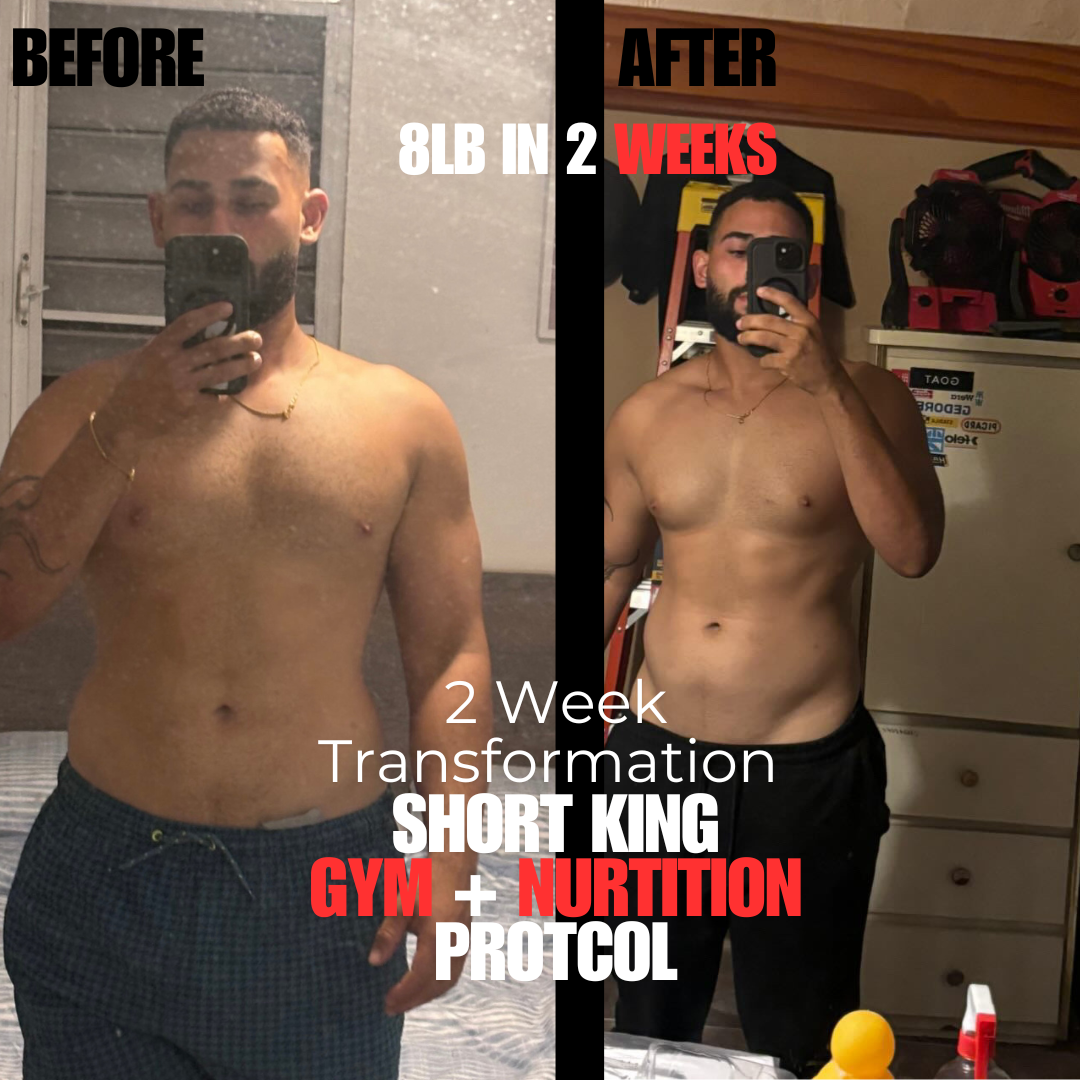
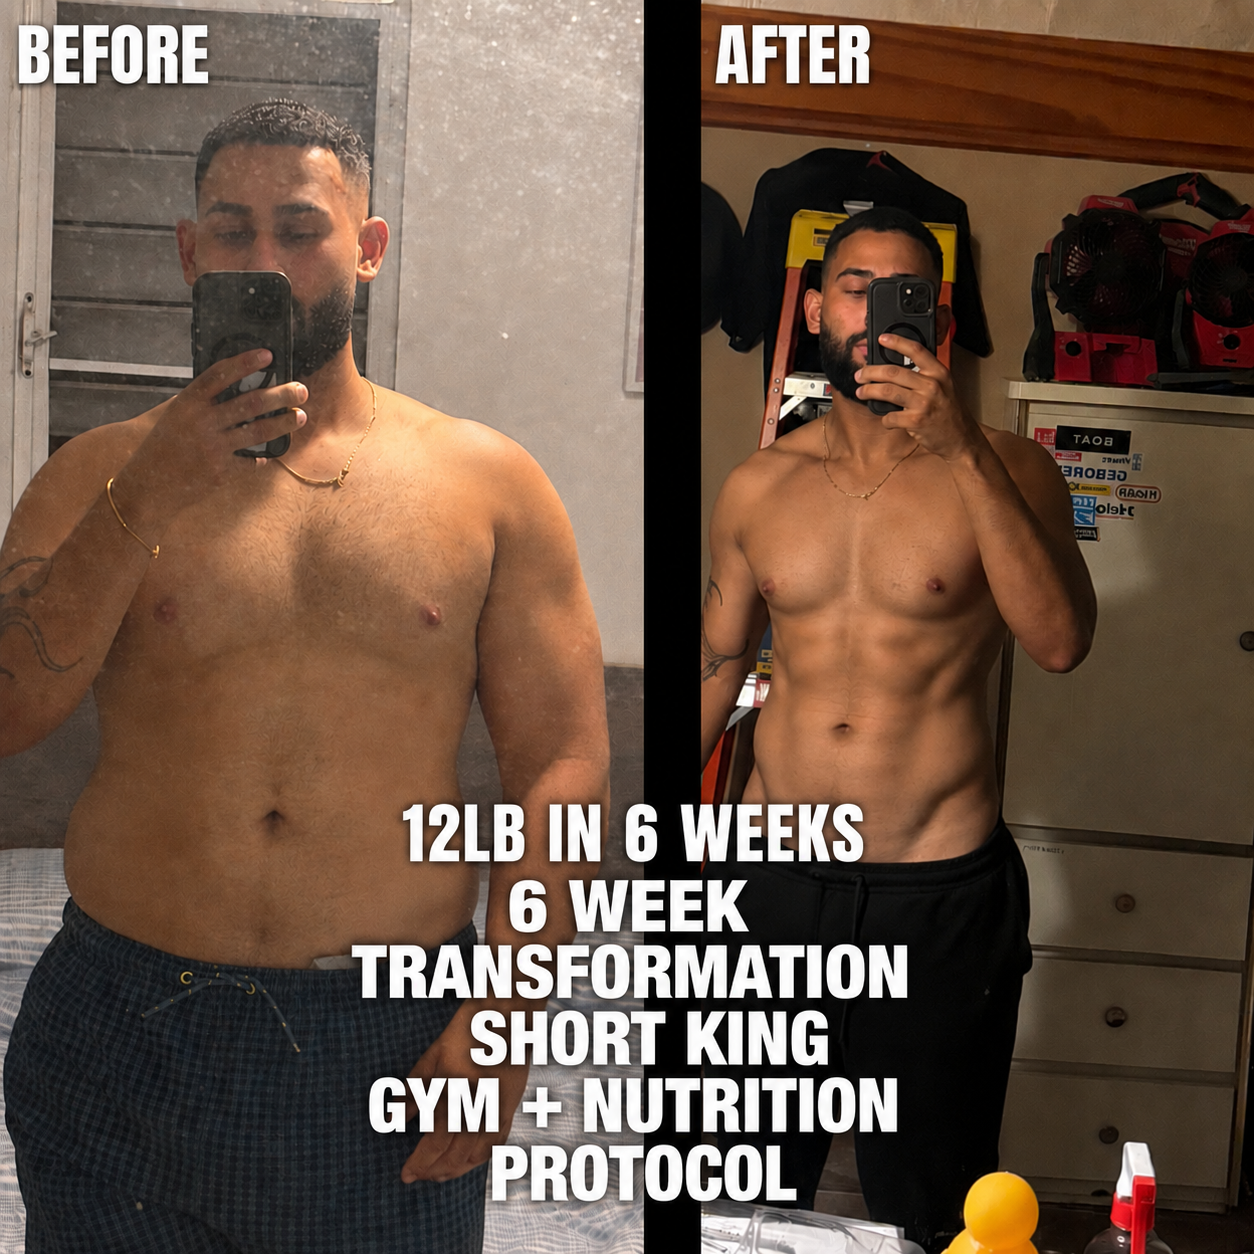
update Kevin M. and Rafael G. testimonials per ELE-1068
- public/media/testimonials/member-3.png replaced (Kevin M. photo)
- public/media/testimonials/member-4.png replaced (Rafael G. photo)
- Kevin M. quote updated on homepage (src/lib/home-funnel.ts)
- Kevin M. quote updated on /testimonials (src/app/testimonials/page.tsx)
- Rafael G. quote updated on /testimonials (src/app/testimonials/page.tsx)

Name, height, city, product tag, and first-win tag unchanged on every
card. Marcus T., James R., David K., Ryan S. cards untouched. No other
pages or sections modified.

diff --git a/src/app/testimonials/page.tsx b/src/app/testimonials/page.tsx
@@ -34,7 +34,7 @@ const PHOTO_CARDS = [
     photo: "/media/testimonials/member-3.png",
     productTag: "3 Month Transformation",
     quote:
-      "Three months ago I had not been on a date in over a year. Axel fixed my Hinge, my approach, my texting, and my frame all at the same time. I am now seeing two women consistently and none of it feels forced.",
+      "I came into the Empire program wanting to fix my dating life but the gym program hit first. I lost 12 pounds in six weeks and that physical change did something to me mentally that I did not expect. Once my body changed my confidence shifted. Then the dating framework gave me the frame to back it up. The way I carry myself now, the way I walk into a room, the way women respond to me. None of it looks like the man I was three months ago.",
     name: "Kevin M.",
     detail: "5'8 · Puerto Rico",
     firstWin: "First win: 60 days",
@@ -44,7 +44,7 @@ const PHOTO_CARDS = [
     photo: "/media/testimonials/member-4.png",
     productTag: "3 Month Transformation",
     quote:
-      "I was getting matches but never getting to the date. I would just run out of things to say or wait too long and she would ghost. This ebook gave me a clear system. My date rate went from almost zero to multiple a month.",
+      "My biggest issue was never really dating. It was how I saw myself. I had been carrying extra weight for years and it was quietly destroying my confidence before I even opened my mouth. The nutrition and gym program changed that. I lost the weight, rebuilt my body, and for the first time started feeling like I deserved to be in the room. Two months into the program I met someone. We have been together ever since. I genuinely did not think that was possible for me before this.",
     name: "Rafael G.",
     detail: "5'5 · San Antonio, TX",
     firstWin: "First win: 38 days",

diff --git a/src/lib/home-funnel.ts b/src/lib/home-funnel.ts
@@ -80,7 +80,7 @@ export const HOME_FUNNEL_TESTIMONIALS = [
     location: "5'8 · Puerto Rico",
     resultLabel: "First win: 60 days",
     quote:
-      "Three months ago I had not been on a date in over a year. Axel fixed my Hinge, my approach, my texting, and my frame all at the same time. I am now seeing two women consistently and none of it feels forced.",
+      "I came into the Empire program wanting to fix my dating life but the gym program hit first. I lost 12 pounds in six weeks and that physical change did something to me mentally that I did not expect. Once my body changed my confidence shifted. Then the dating framework gave me the frame to back it up. The way I carry myself now, the way I walk into a room, the way women respond to me. None of it looks like the man I was three months ago.",
   },
 ] as const;
 